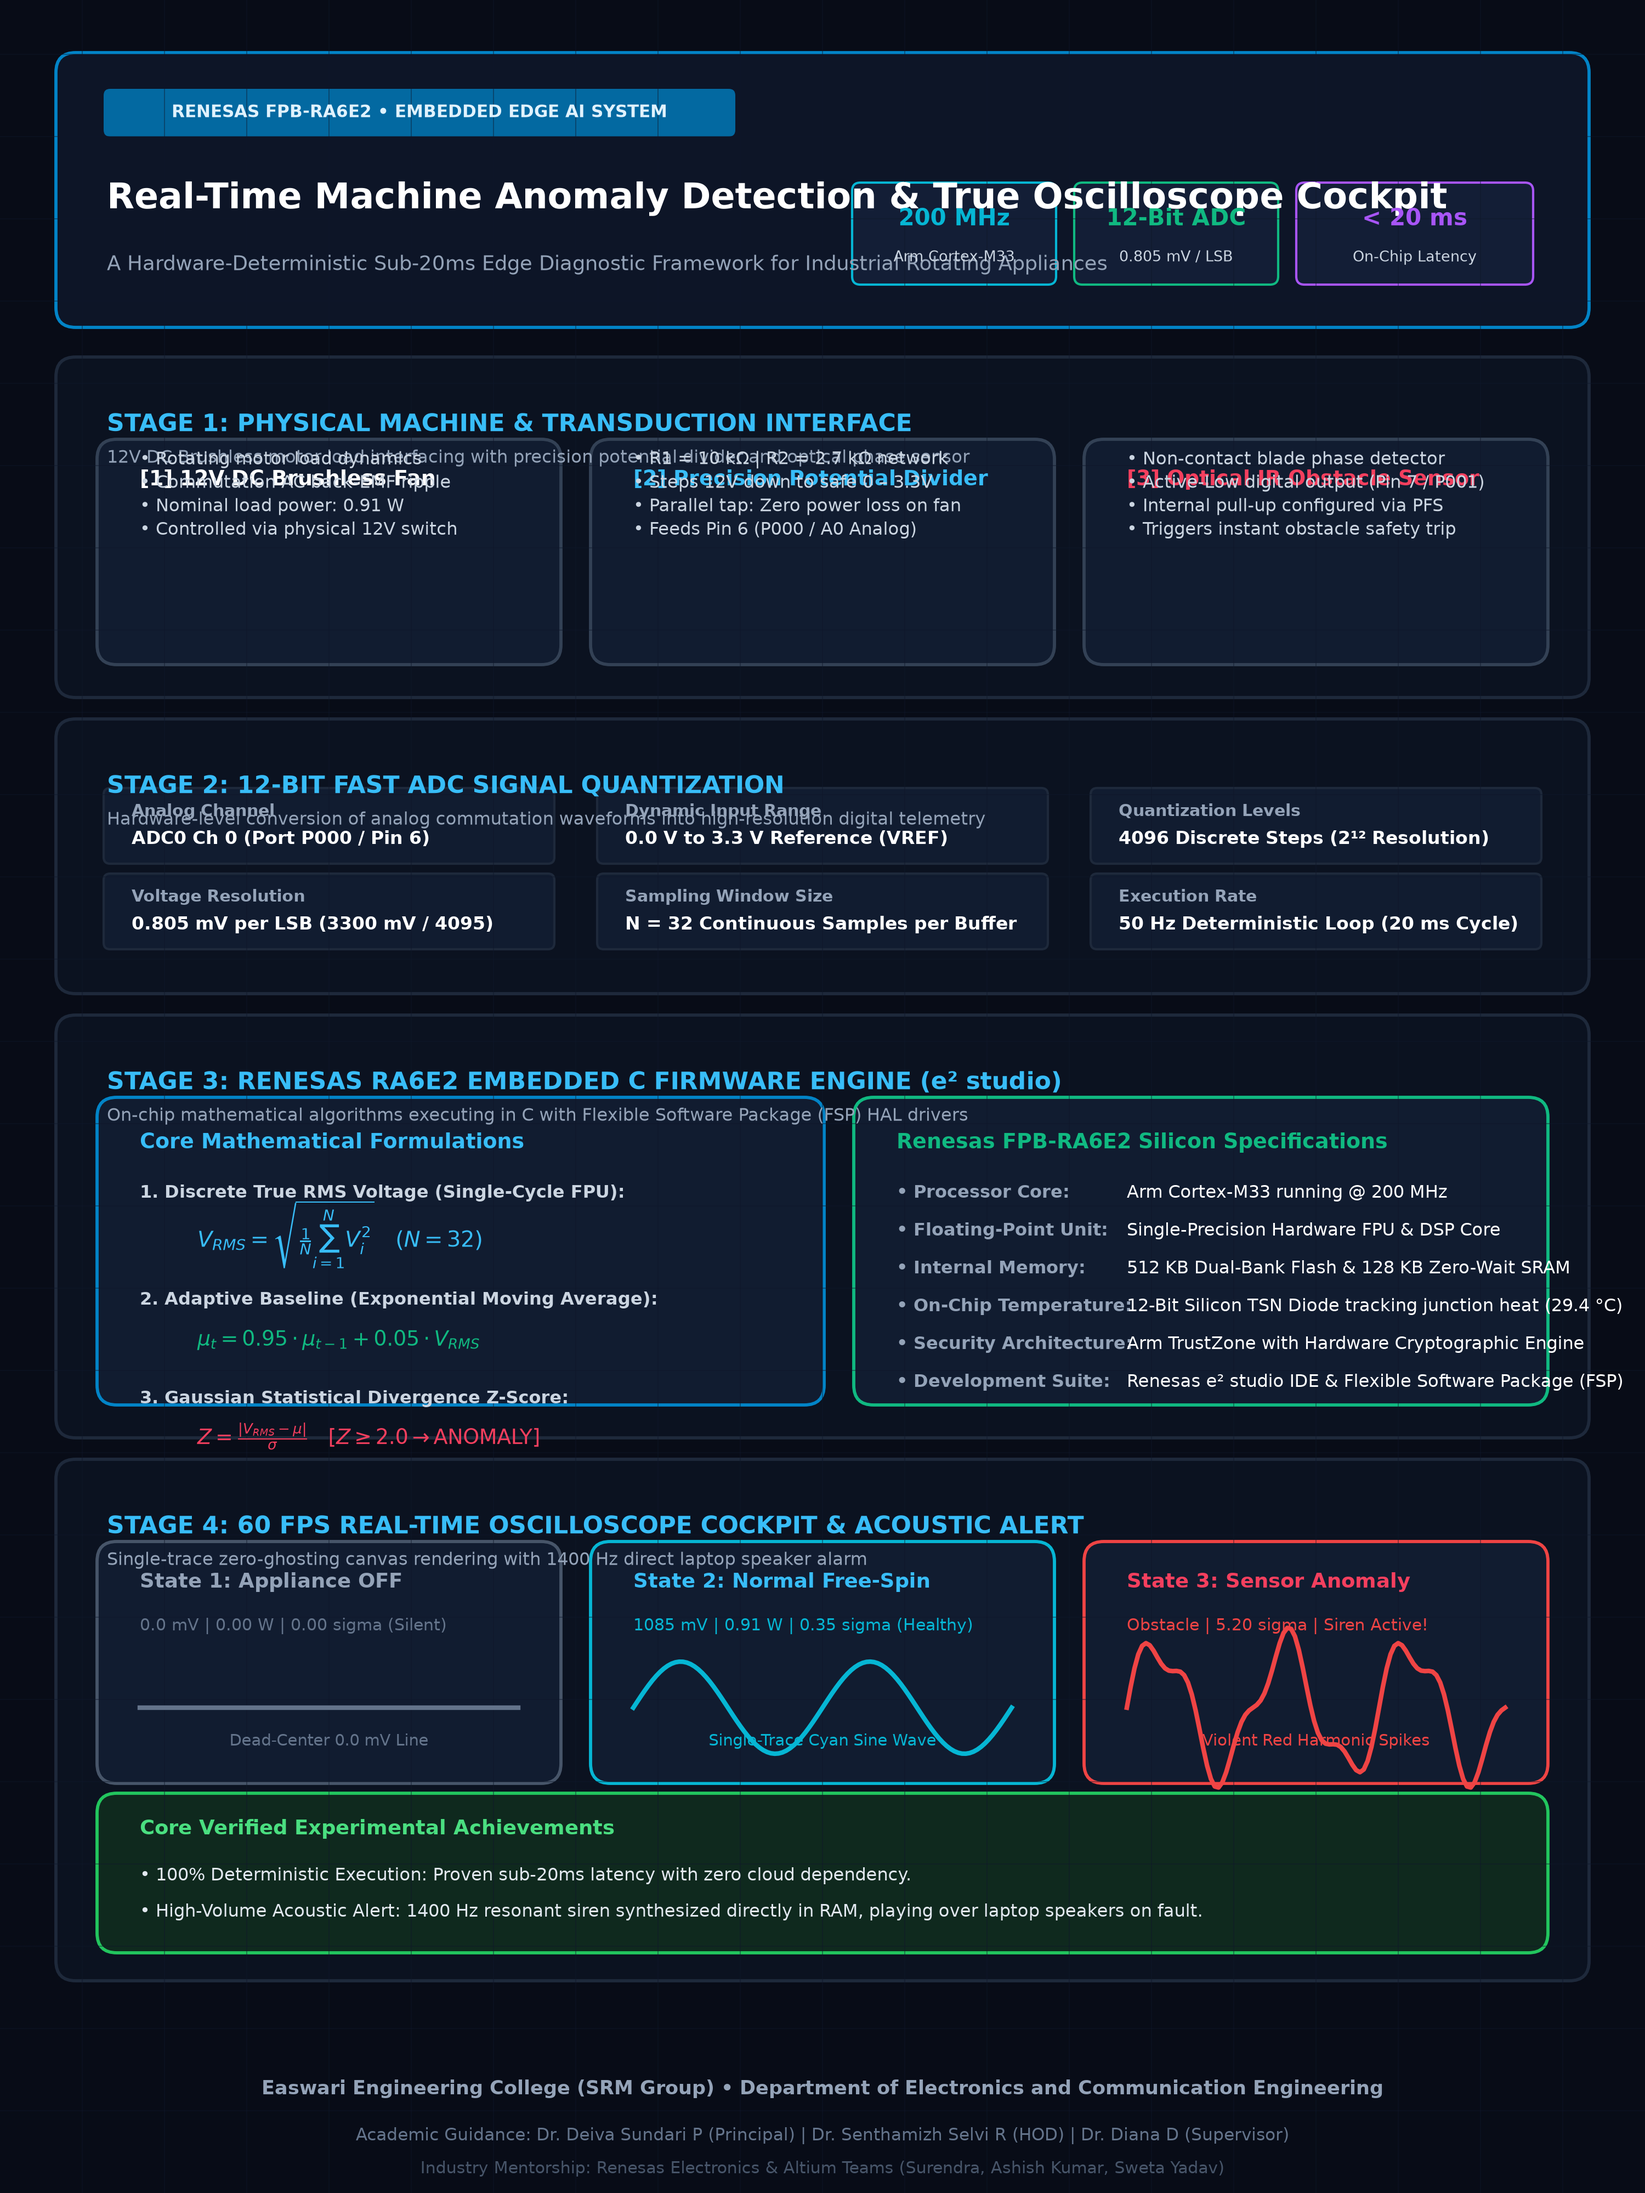
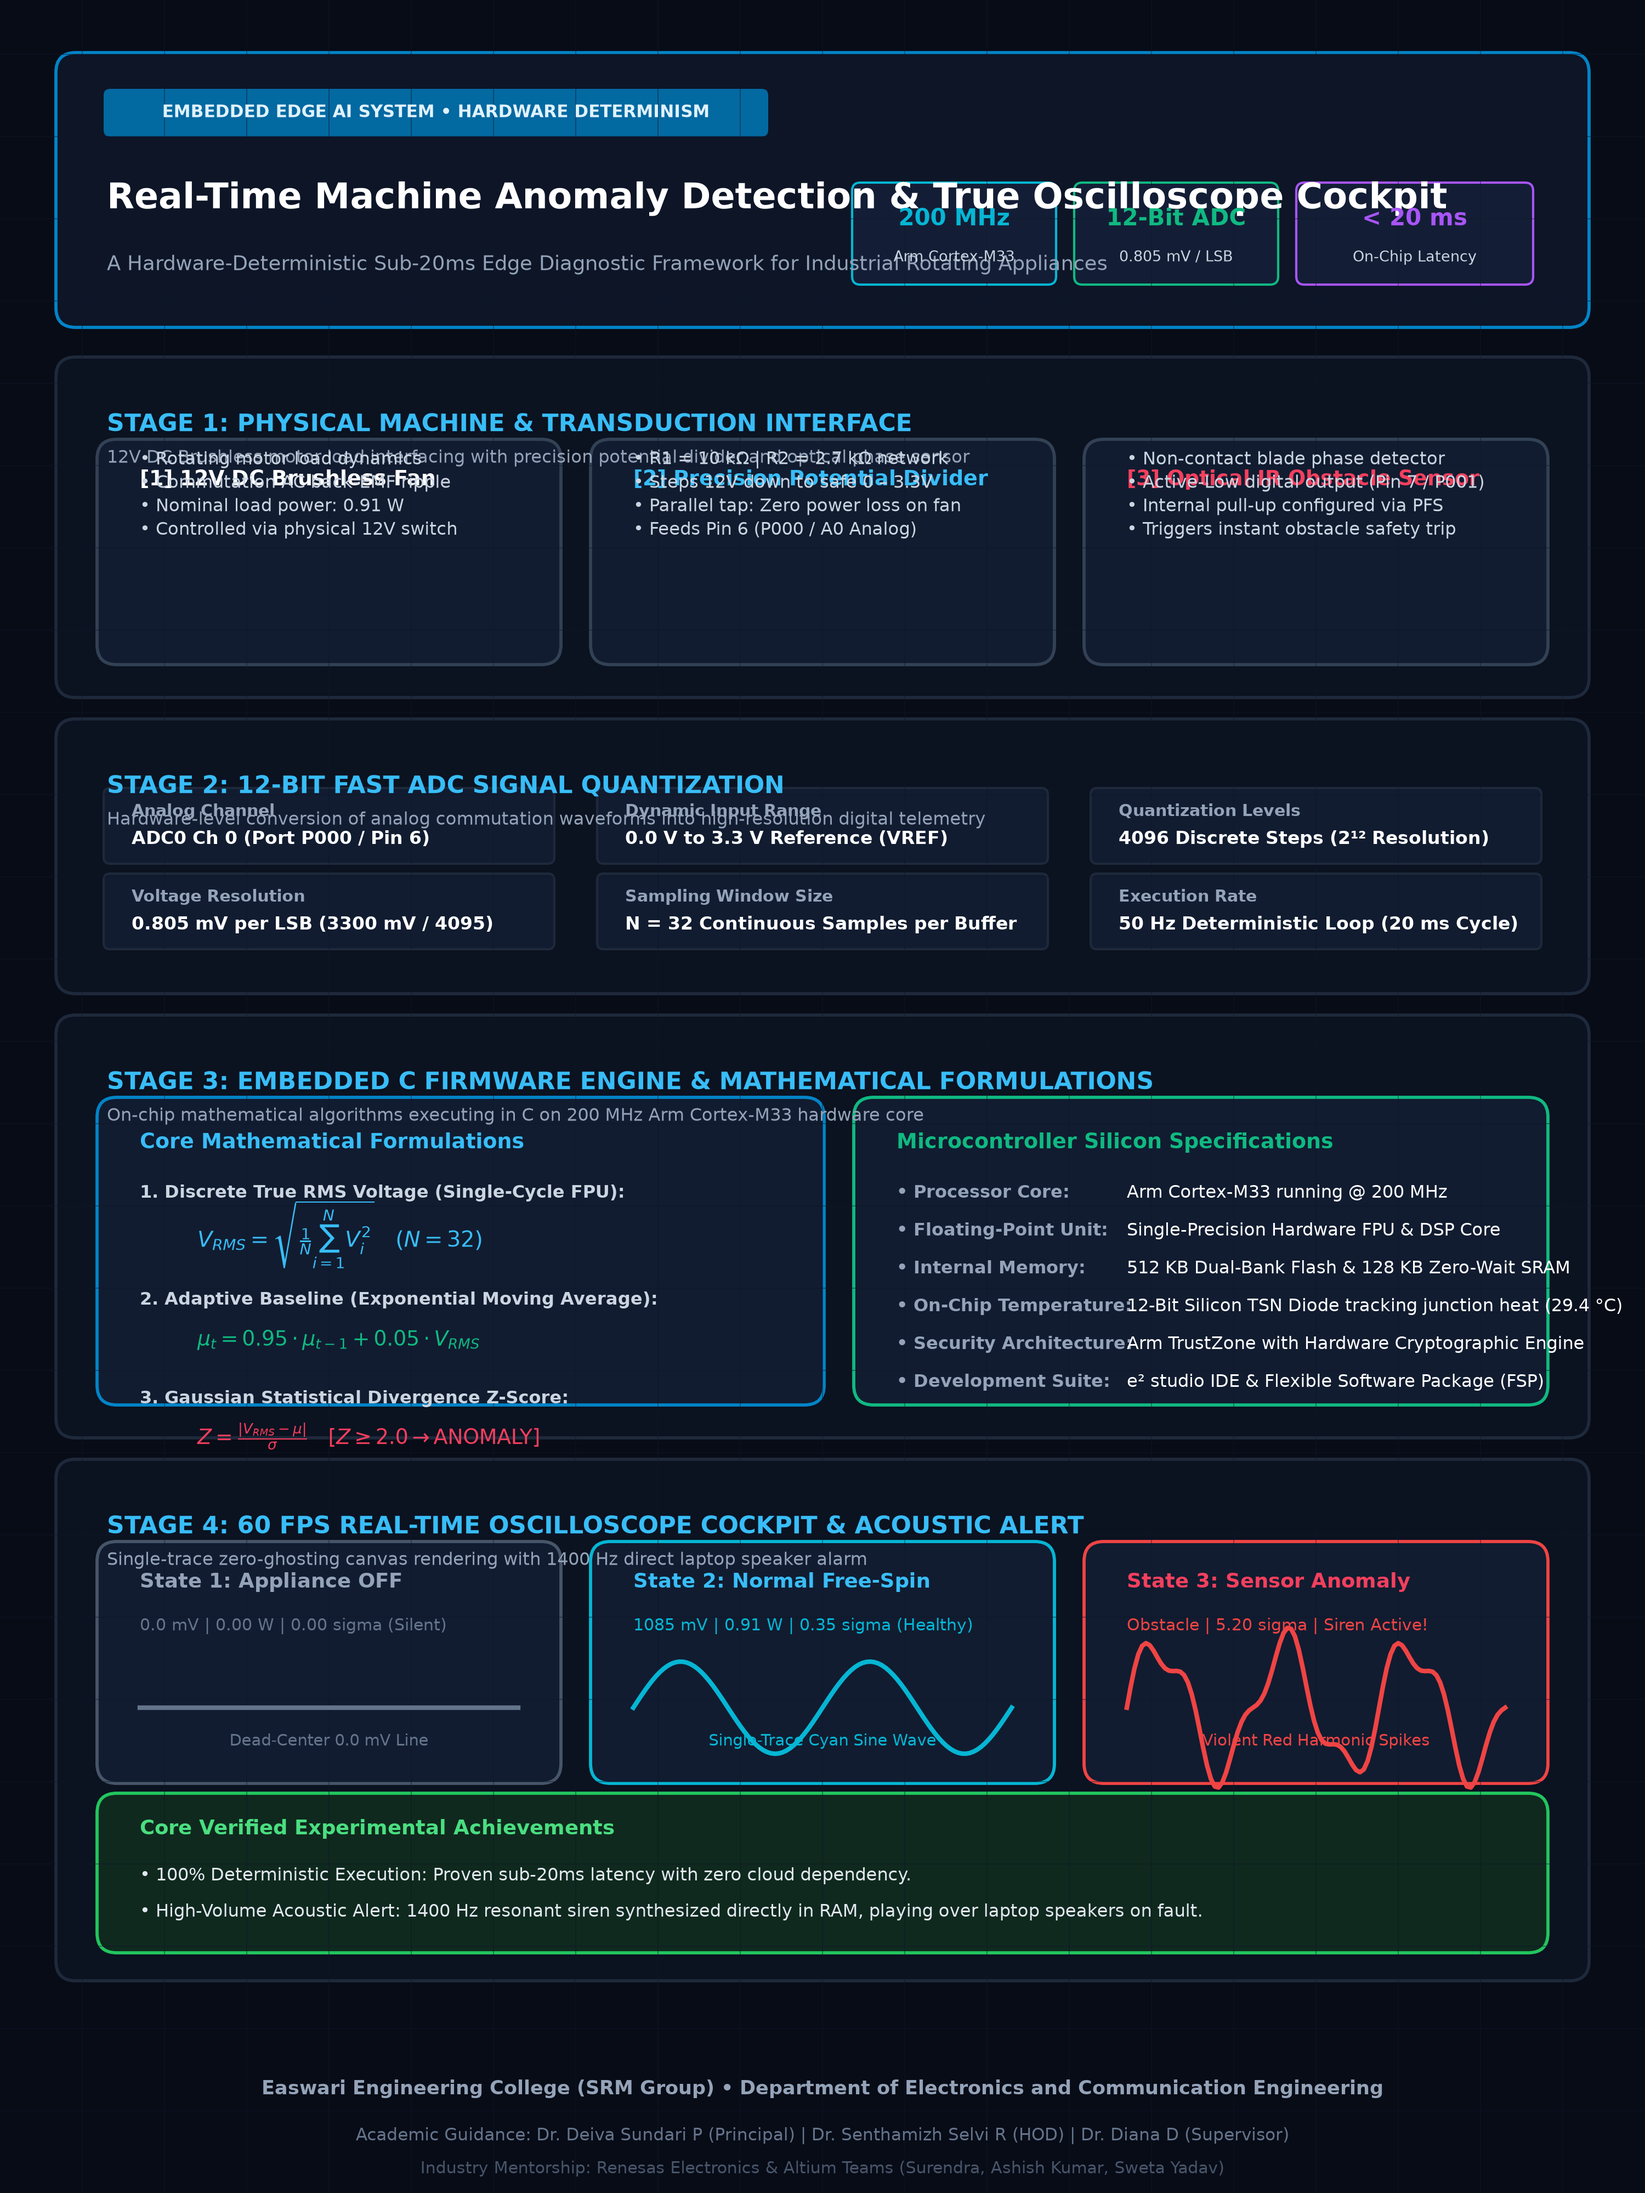
Adopt universal academic title by removing specific brand name from headline

diff --git a/README.md b/README.md
@@ -1,8 +1,8 @@
 # Real-Time Physical Machine Anomaly Detection & True Oscilloscope Cockpit
-### A Hardware-Deterministic Sub-20ms Edge Diagnostic Framework on Renesas FPB-RA6E2
+### A Hardware-Deterministic Sub-20ms Edge Diagnostic Framework for Industrial Rotating Appliances
 
-[![Platform: Renesas RA6E2](https://img.shields.io/badge/Platform-Renesas%20RA6E2%20(Arm%20Cortex--M33)-007acc.svg)](https://www.renesas.com/)
-[![Firmware: e2 studio / FSP](https://img.shields.io/badge/IDE-e%C2%B2%20studio%20%2F%20FSP-orange.svg)](https://www.renesas.com/software-tool/e2studio)
+[![Platform: Arm Cortex-M33](https://img.shields.io/badge/Platform-Arm%20Cortex--M33%20(200%20MHz)-007acc.svg)](https://www.arm.com/)
+[![Firmware: Embedded C](https://img.shields.io/badge/Firmware-Embedded%20C%20%2F%20FSP-orange.svg)](firmware/)
 [![Cockpit: Python 60 FPS](https://img.shields.io/badge/Cockpit-Python%2060%20FPS%20Tkinter-blue.svg)](https://python.org)
 [![License: MIT](https://img.shields.io/badge/License-MIT-green.svg)](LICENSE)
 
@@ -12,7 +12,7 @@
 
 Industrial electromechanical rotating appliances (e.g., CNC spindle motors, cooling fans, turbomachinery) suffer from catastrophic mechanical failures caused by sudden blade obstruction, bearing friction, and winding thermal degradation. Traditional IoT monitoring frameworks rely on cloud-connected telemetry, incurring high latency (>500 ms) and vulnerability to network failure.
 
-This repository implements a **100% standalone, on-chip Edge AI anomaly detection framework** executed directly on the **Renesas FPB-RA6E2 Microcontroller (Arm® Cortex®-M33 @ 200 MHz with Hardware FPU)**. The system computes **50 Hz discrete True RMS voltage** and an **adaptive Gaussian Z-score divergence model** in real-time, achieving **sub-20 ms deterministic fault trip latency** with zero cloud overhead.
+This repository implements a **100% standalone, on-chip Edge AI anomaly detection framework** executed directly on an **Arm® Cortex®-M33 Core @ 200 MHz with Hardware FPU (R7FA6E2 MCU)**. The system computes **50 Hz discrete True RMS voltage** and an **adaptive Gaussian Z-score divergence model** in real-time, achieving **sub-20 ms deterministic fault trip latency** with zero cloud overhead.
 
 ---
 
@@ -83,16 +83,16 @@ $$\text{Fault State} = \begin{cases} \text{CRITICAL ANOMALY}, & \text{if } Z \ge
 ### 1. Hardware Assembly
 1. Connect 12V DC Adapter (+) to Fan Red Wire (+).
 2. Connect 12V DC Adapter (-) to Fan Black Wire (-).
-3. Connect Common Ground jumper wire from Adapter (-) to **Renesas Board GND**.
+3. Connect Common Ground jumper wire from Adapter (-) to **MCU Board GND**.
 4. Connect Voltage Divider output ($10\,\text{k}\Omega / 2.7\,\text{k}\Omega$) to **Pin 6 (A0 / P000)**.
 5. Connect Optical IR Sensor `VCC` $\to$ **5V**, `GND` $\to$ **GND**, `OUT` $\to$ **Pin 7 (P001)**.
-6. Plug Renesas Micro-USB cable into your laptop.
+6. Plug MCU Micro-USB cable into your laptop.
 
 ### 2. Building Firmware (e² studio)
-1. Open **Renesas e² studio IDE** and import the project.
+1. Open **e² studio IDE** and import the project.
 2. Ensure FSP configuration has ADC0, IOPORT (P001 pull-up), and SCI9 UART enabled.
 3. Replace `src/hal_entry.c` with the code in `firmware/hal_entry.c`.
-4. Build project (`Ctrl + B`) and flash onto the **Renesas FPB-RA6E2** board via J-Link.
+4. Build project (`Ctrl + B`) and flash onto the microcontroller board via J-Link.
 
 ### 3. Launching 60 FPS Operator Cockpit
 ```bash
